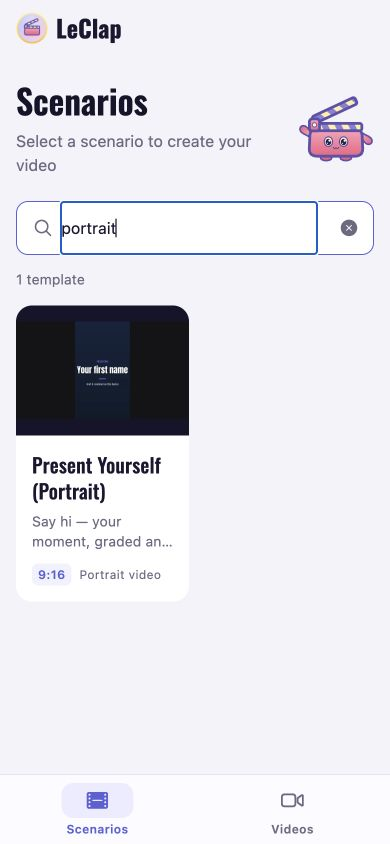
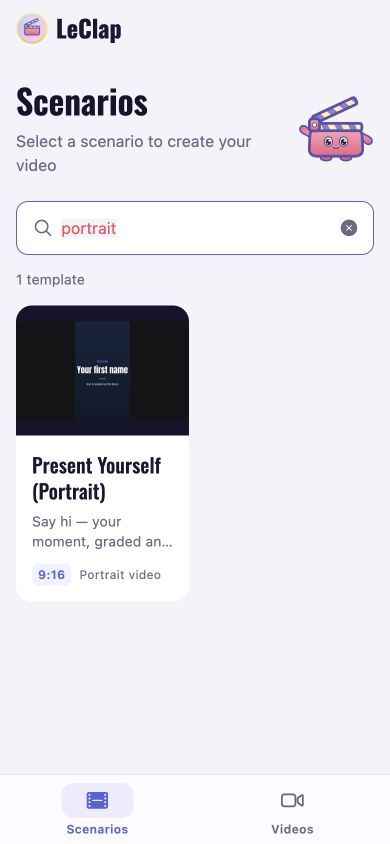
Remove duplicate web focus outline from Expo search

Changed region(s): [[0.1538, 0.2156, 0.3077, 0.3081], [0.8, 0.2464, 0.8308, 0.3081]]

diff --git a/apps/leclap-expo/src/features/templates/components/TemplateList.tsx b/apps/leclap-expo/src/features/templates/components/TemplateList.tsx
@@ -8,6 +8,7 @@ import {
   Text,
   Pressable,
   useWindowDimensions,
+  Platform,
 } from 'react-native';
 import type { Template } from '@/src/types';
 import TemplateCard from './TemplateCard';
@@ -174,6 +175,8 @@ const styles = StyleSheet.create({
   searchFocused: { borderColor: colors.primaryDark },
   searchInput: {
     ...typography.body,
+    // The enclosing search control supplies the focus border.
+    ...Platform.select({ web: { outlineStyle: 'solid', outlineWidth: 0 } }),
     color: colors.text,
     flex: 1,
     minHeight: 52,

diff --git a/.github/media/pr-73/expo/README.md b/.github/media/pr-73/expo/README.md
@@ -7,7 +7,7 @@ Captured on 2026-10-03 after the Expo polish at `ef8c86f9` and its export review
 The JPEGs are unmodified browser screenshots of the actual React Native components rendered through React Native Web in a temporary fixture. They are **not native device screenshots**. Phone viewport: 390×844; tablet: 768×1024. Fonts, translations, SVG mascot and posters come from the app.
 
 - `gallery-phone.jpg` / `gallery-tablet.jpg`: production Header, TemplateList and CustomTabBar with the ten bundled templates. The fixture supplies catalog data and inert navigation; it does not mount the full routed Scenarios screen or its Create action.
-- `search-phone.jpg`: entered “portrait” through the real search control; focused input retained and one matching template shown.
+- `search-phone.jpg`: refreshed after removing the duplicate browser focus outline; Tab/Shift+Tab returns to the input with the enclosing lavender border still visible. Entered “portrait” through the real search control; focused input retained and one matching template shown.
 - `empty-search-phone.jpg`: entered “unmatched”; the actual clear-search control restored ten results.
 - `export-phone.jpg` / `upload-phone.jpg`: production ExportSheet with a fixture output URI. Opening the actual disclosure reveals the URL field and a disabled empty-URL upload action; Close dismisses the sheet. Save, system Share and a real upload were not invoked in the browser.
 - `render-phone.jpg`: production CompileProgressOverlay driven by its real Zustand store with controlled 42% progress. Cancel invokes the fixture cancellation callback and closes the overlay. This does not represent a timed engine render.
